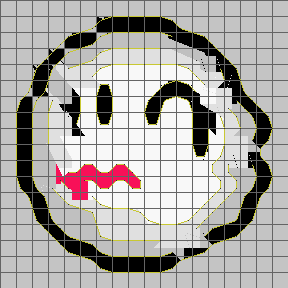
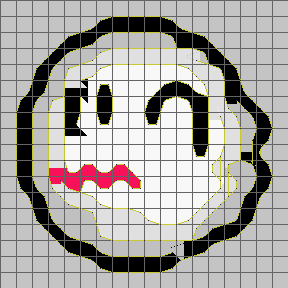
demo version

diff --git a/setBorder.m b/setBorder.m
@@ -22,6 +22,7 @@ for i = 1:r
                     borders = [borders; curCP(2), curCP(3); botCP(4), botCP(5)];
                 elseif (botCP(6) == 2)
                     borders = [borders; curCP(2), curCP(3); botCP(2), botCP(3)];
+                    % borders = [borders; curCP(4), curCP(5); botCP(4), botCP(5)];
                 else
                     borders = [borders; curCP(2), curCP(3); botCP(2), botCP(3)];
                 end
@@ -30,6 +31,7 @@ for i = 1:r
                 % bot link
                 if (botCP(6) == 1)
                     borders = [borders; curCP(4), curCP(5); botCP(4), botCP(5)];
+                    % borders = [borders; curCP(2), curCP(3); botCP(2), botCP(3)];
                 elseif (botCP(6) == 2)
                     borders = [borders; curCP(4), curCP(5); botCP(2), botCP(3)];
                 else
@@ -62,7 +64,7 @@ for i = 1:r
             elseif (curCP(6) == 6) %left-top-corner
                 % no any link
 
-            elseif (curCP(6) == 7) %vertical-side
+            elseif (curCP(6) >= 7 && curCP(6) <= 9) % all-vertical-side
                 % bot link
                 if (botCP(6) == 1)
                     borders = [borders; curCP(2), curCP(3); botCP(4), botCP(5)];
@@ -72,8 +74,15 @@ for i = 1:r
                     borders = [borders; curCP(2), curCP(3); botCP(2), botCP(3)];
                 end
 
-            elseif (curCP(6) == 8) %horizontal-side
-                % no bot link
+            elseif (curCP(6) == 11) % top-horizontal-side
+                % bot link
+                if (botCP(6) == 1)
+                    borders = [borders; curCP(2), curCP(3); botCP(4), botCP(5)];
+                elseif (botCP(6) == 2)
+                    borders = [borders; curCP(2), curCP(3); botCP(2), botCP(3)];
+                else
+                    borders = [borders; curCP(2), curCP(3); botCP(2), botCP(3)];
+                end
                 
             end
             
@@ -134,10 +143,7 @@ for i = 1:r
             elseif (curCP(6) == 6) %left-top-corner
                 % no any link
 
-            elseif (curCP(6) == 7) %vertical-side
-                % no right link
-
-            elseif (curCP(6) == 8) %horizontal-side
+            elseif (curCP(6) == 8) % left-vertical-side
                 % right link
                 if (rightCP(6) == 1)
                     borders = [borders; curCP(2), curCP(3); rightCP(2), rightCP(3)];
@@ -147,8 +153,16 @@ for i = 1:r
                     borders = [borders; curCP(2), curCP(3); rightCP(2), rightCP(3)];
                 end
 
-                % no bot link
-
+            elseif (curCP(6) >= 10 && curCP(6) <= 12) % all-horizontal-side
+                % right link
+                if (rightCP(6) == 1)
+                    borders = [borders; curCP(2), curCP(3); rightCP(2), rightCP(3)];
+                elseif (rightCP(6) == 2)
+                    borders = [borders; curCP(2), curCP(3); rightCP(2), rightCP(3)];
+                else
+                    borders = [borders; curCP(2), curCP(3); rightCP(2), rightCP(3)];
+                end
+                
             end
             
         end

diff --git a/final_project.m b/final_project.m
@@ -13,7 +13,7 @@ clear;
 mul = 16; % multiple times
 
 % load the input and extend it
-input = imread('testcase/testcase1.png');
+input = imread('testcase/test9.png');
 input = extend(input);
 
 % connection of input pixels about their neighbors
@@ -33,5 +33,5 @@ resultImg = restrict(resultImg, mul);
 supImg = restrict(supImg, mul);
 
 % output the result
-imwrite(resultImg, 'output/output1.png');
-imwrite(supImg, 'output/sup1.png');
+imwrite(resultImg, 'output/output9.png');
+imwrite(supImg, 'output/sup9.png');
